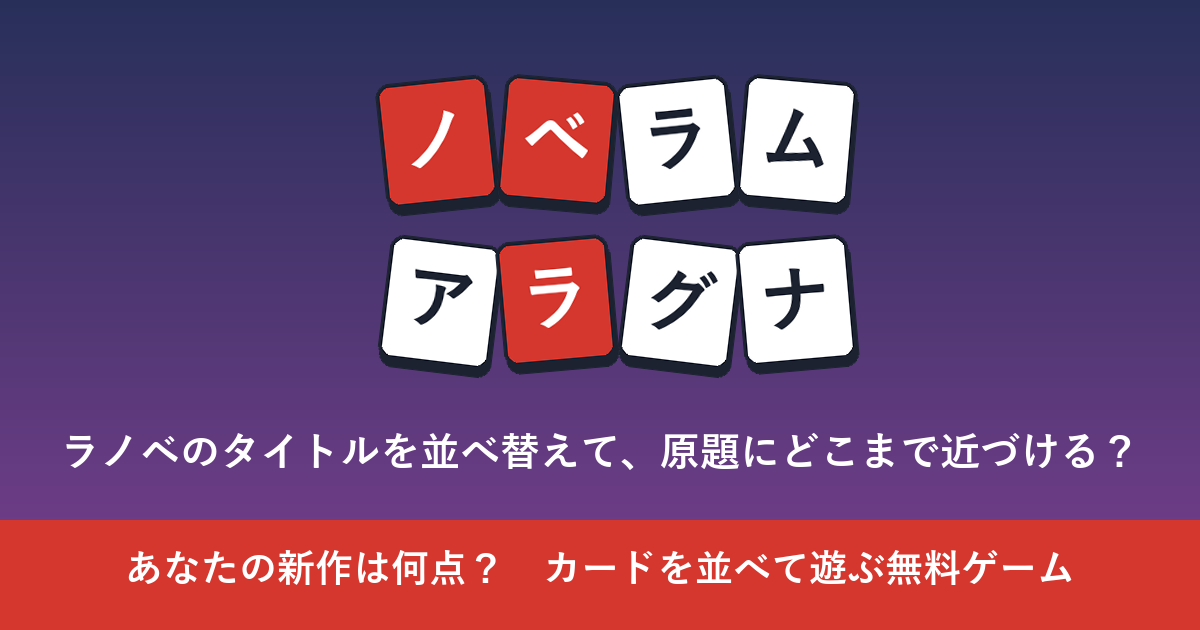
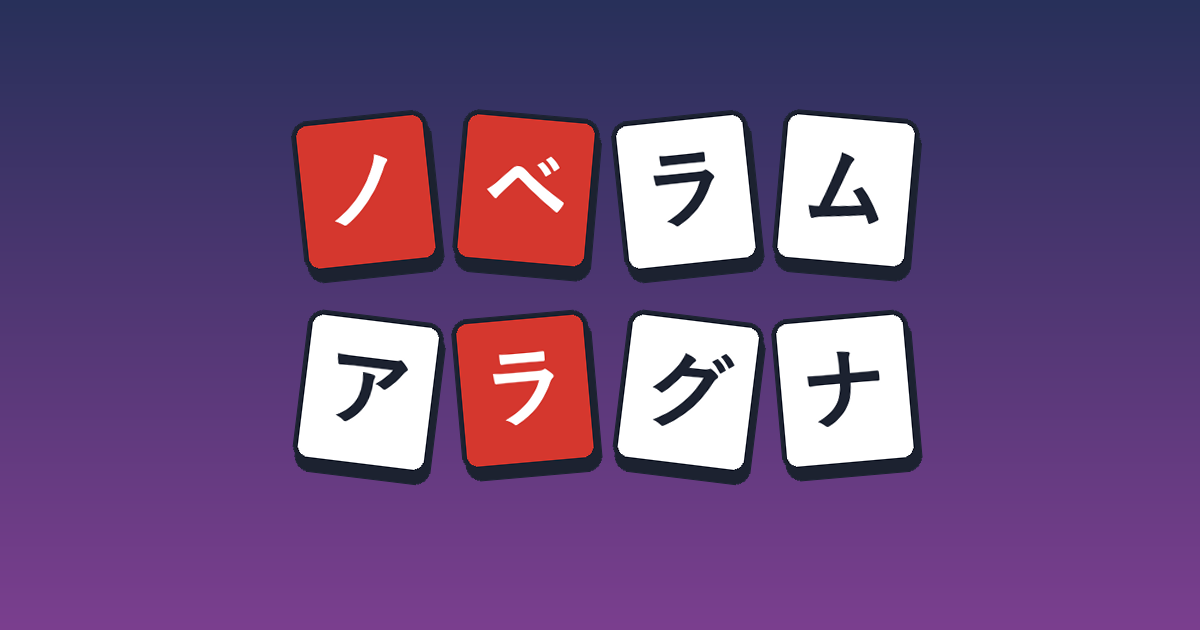
プレビュー画像をロゴだけにし、説明文とルールの余分な文を削る

diff --git a/index.html b/index.html
@@ -5,10 +5,8 @@
 <meta name="viewport" content="width=device-width,initial-scale=1,viewport-fit=cover">
 <style>:root{color-scheme:light;padding-top:env(safe-area-inset-top,0px);padding-bottom:env(safe-area-inset-bottom,0px)}[hidden]{display:none!important}</style>
 <title>ノベラムアラグナ</title>
-<meta name="description" content="1文字ずつのカードを並べて、ライトノベルのタイトルを当てるゲーム。原題との一致度で点数が出ます。">
 <meta property="og:type" content="website">
 <meta property="og:title" content="ノベラムアラグナ">
-<meta property="og:description" content="ラノベのタイトルを並べ替えて、原題にどこまで近づけるか。あなたの新作は何点？">
 <meta property="og:url" content="https://bookworm1000-cyber.github.io/novelam-araguna/">
 <meta property="og:image" content="https://bookworm1000-cyber.github.io/novelam-araguna/og.png">
 <meta name="twitter:card" content="summary_large_image">
@@ -292,8 +290,8 @@ function titleHTML(){
     <button class="btn pri" data-a="start">スタート</button>
     <ol>
       <li>カードを全部使ってタイトルを並べる</li>
-      <li>原題に近いほど点が高い。ぴったりでなくてよい</li>
-      <li>Lv.1〜5を遊ぶと鬼が開く。もう一度も遊べる</li>
+      <li>原題に近いほど点が高い</li>
+      <li>Lv.1〜5を遊ぶと鬼が開く</li>
     </ol>
     ${any?`<button class="reset${S.armed==='reset'?' armed':''}" data-a="reset">${S.armed==='reset'?'もう一度押すと記録を消します':'記録を消す'}</button>`:''}
   </div></div>`;
